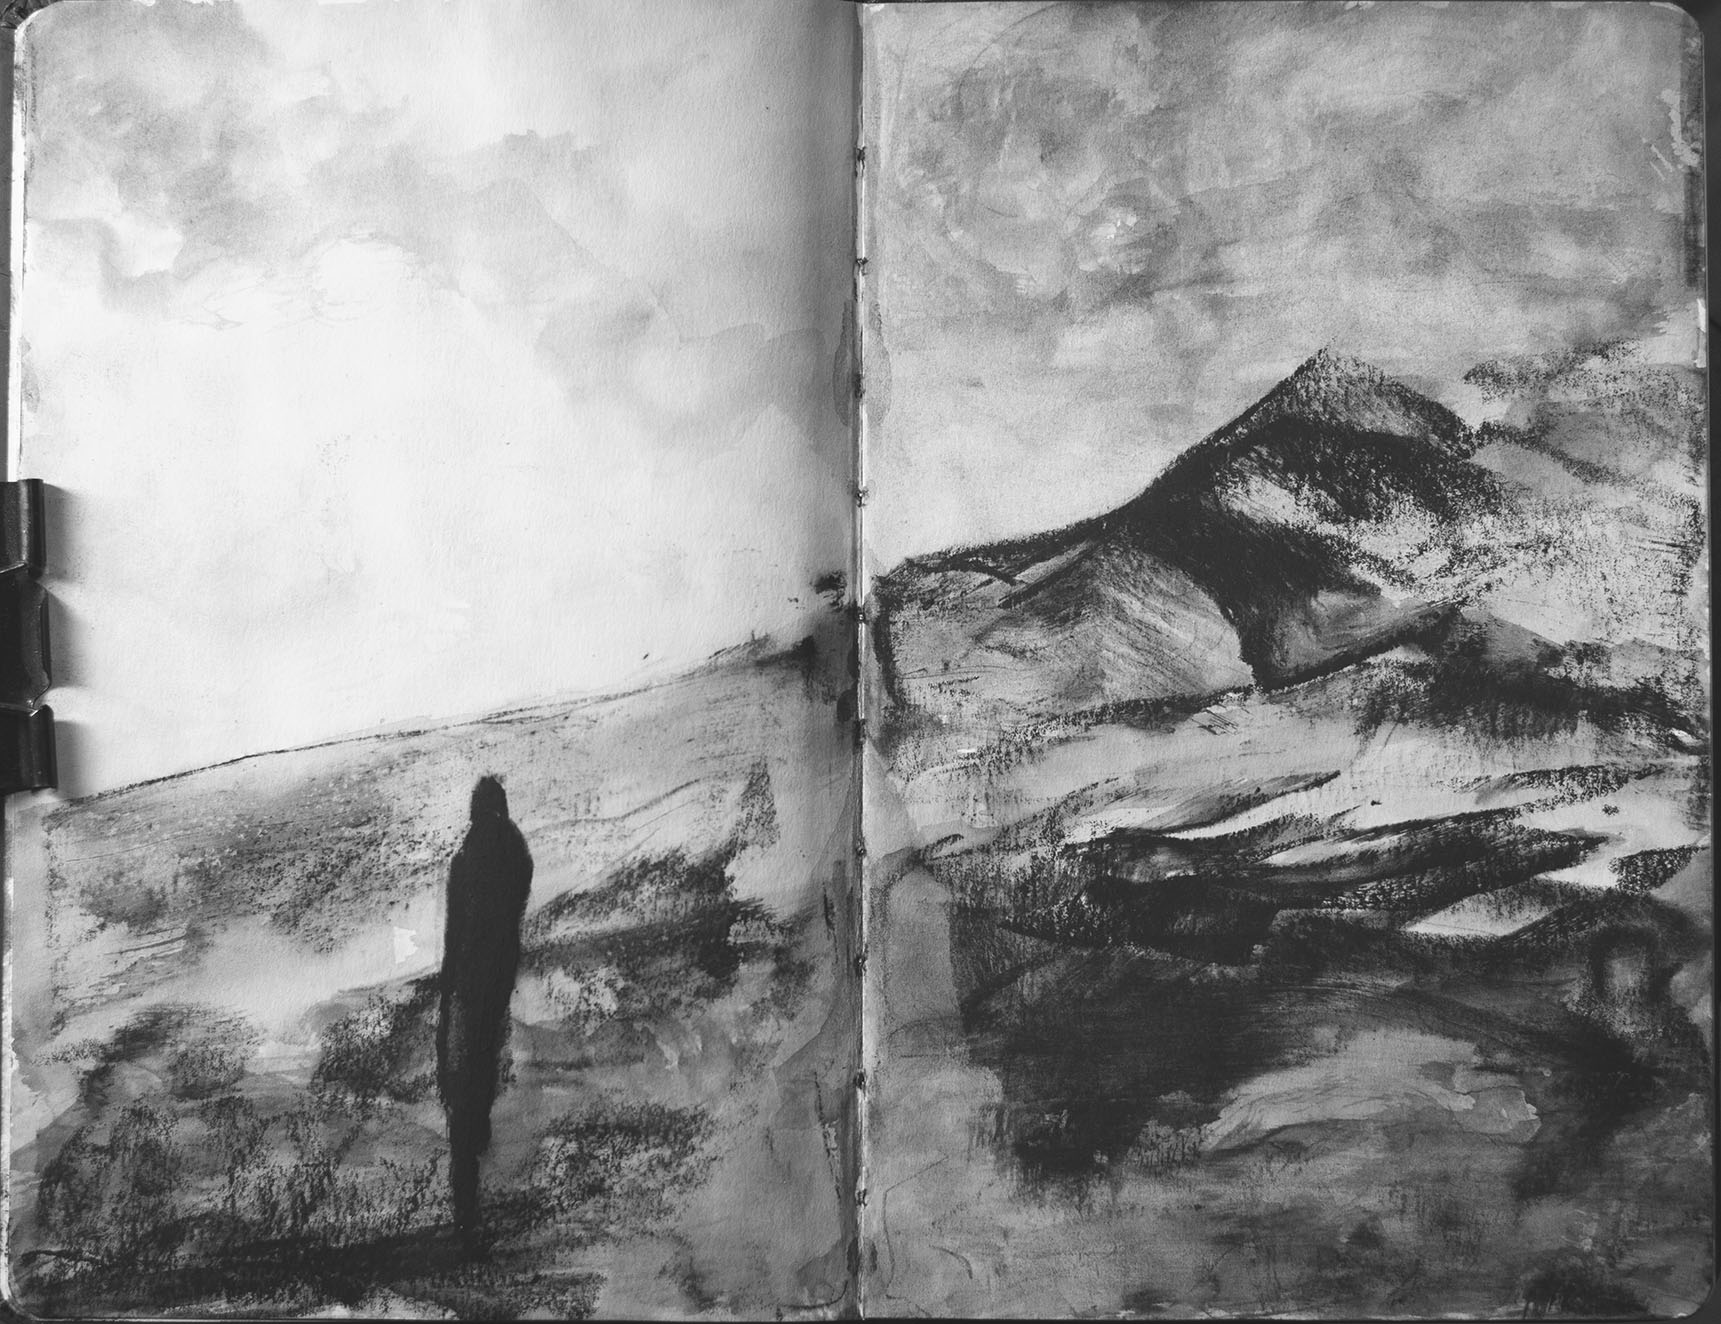
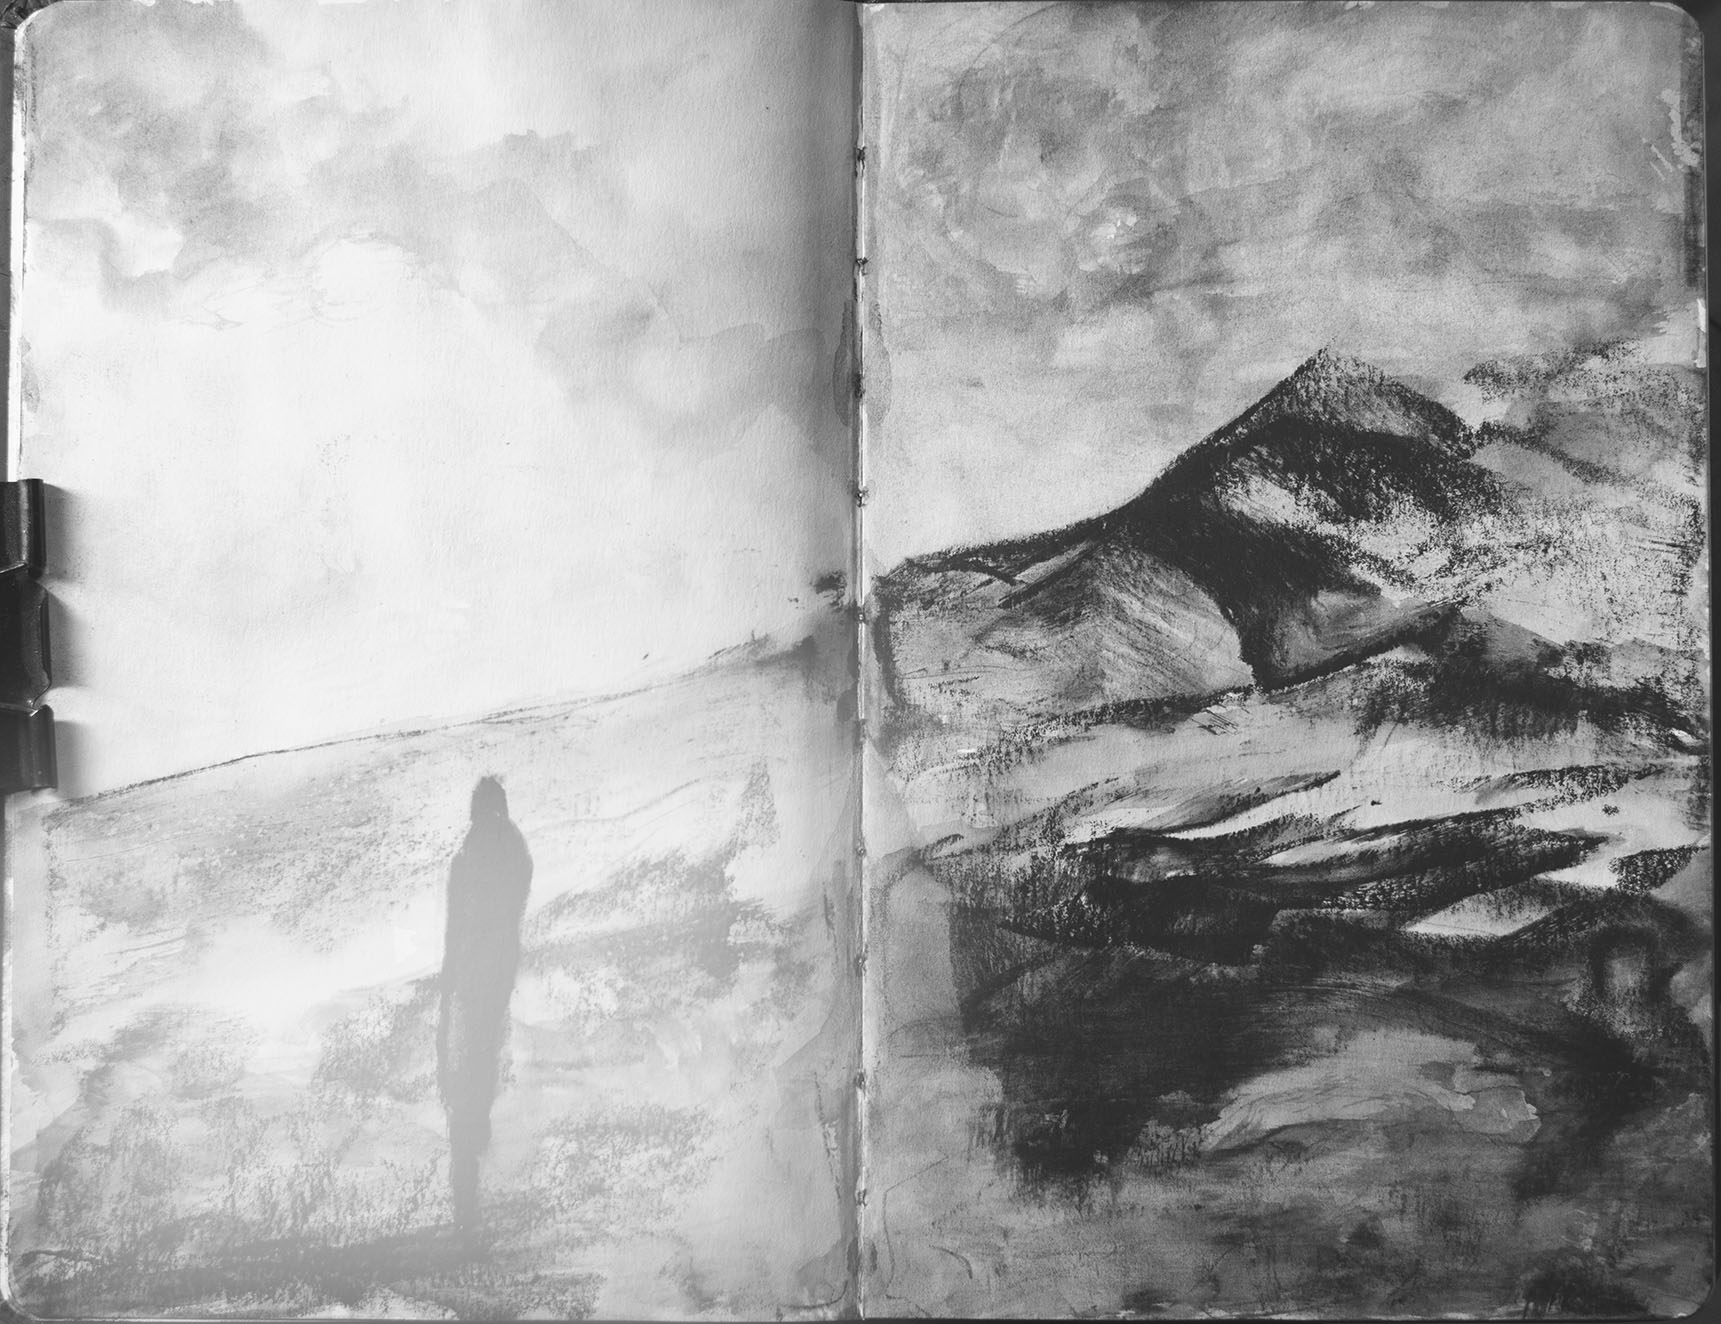
ajustes hamadriades

Changed region(s): [[0.0, 0.4335, 0.5543, 1.0]]

diff --git a/pages/hamadriades-prueba.html b/pages/hamadriades-prueba.html
@@ -48,8 +48,7 @@
     </div>
 
 </section>
-    <div class="volver-inicio">
-    <a href="../index.html">← Volver al inicio</a>
+   
 </div>
        
 </main>
